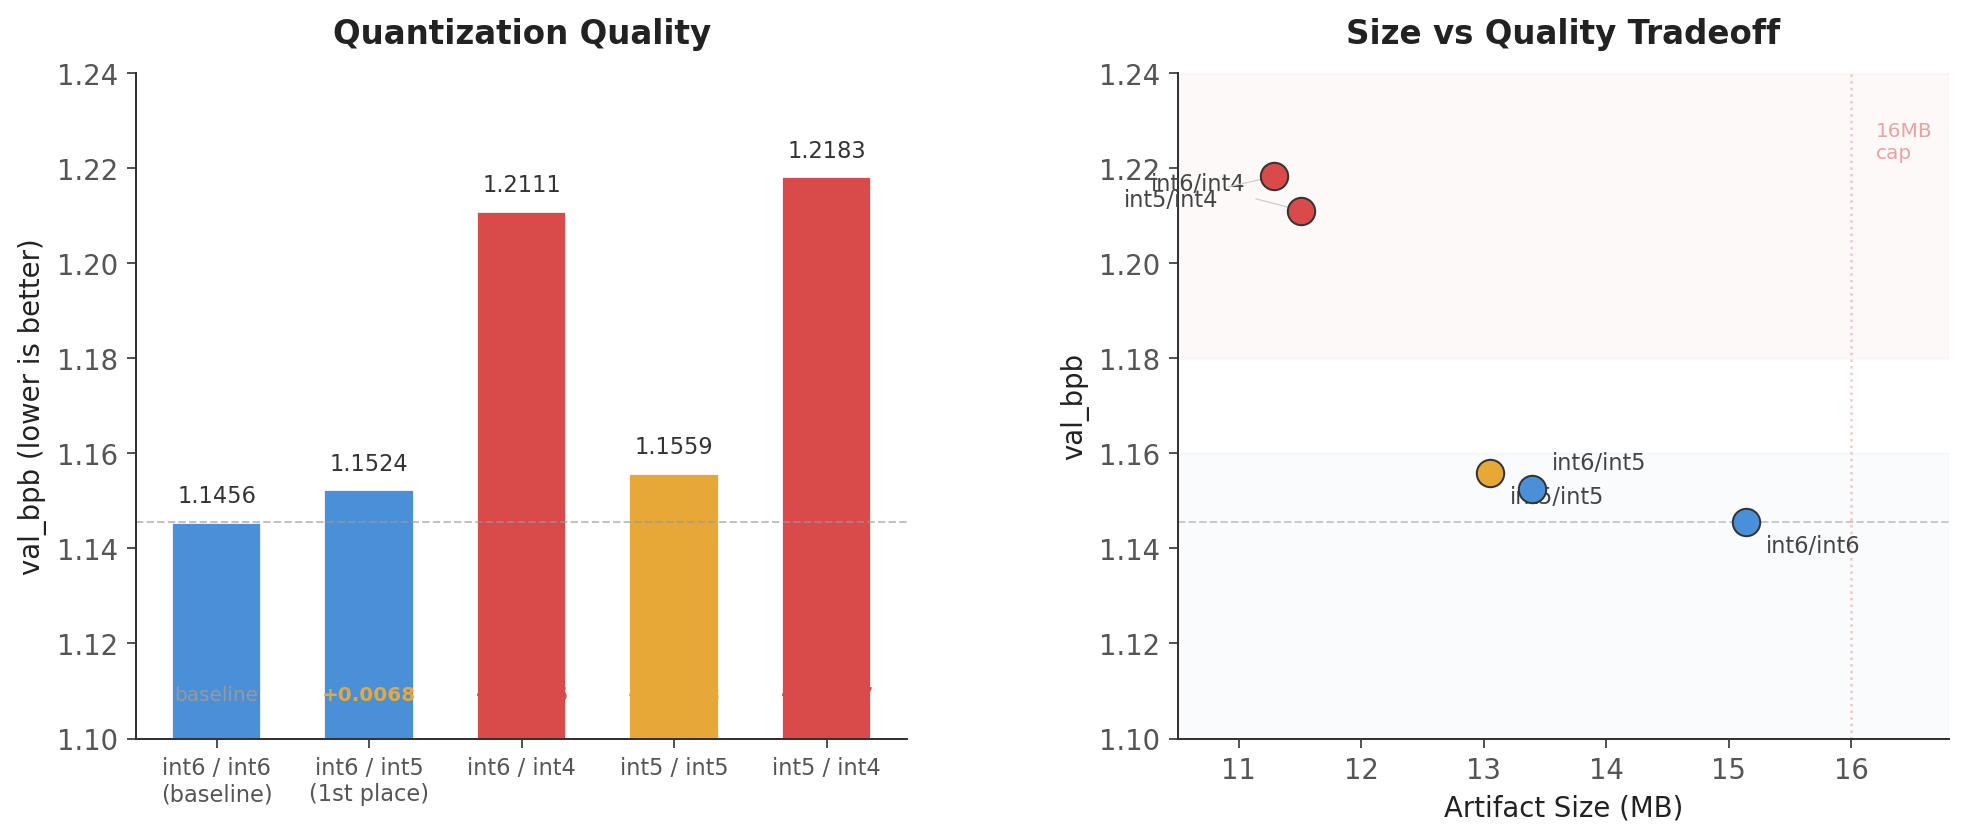
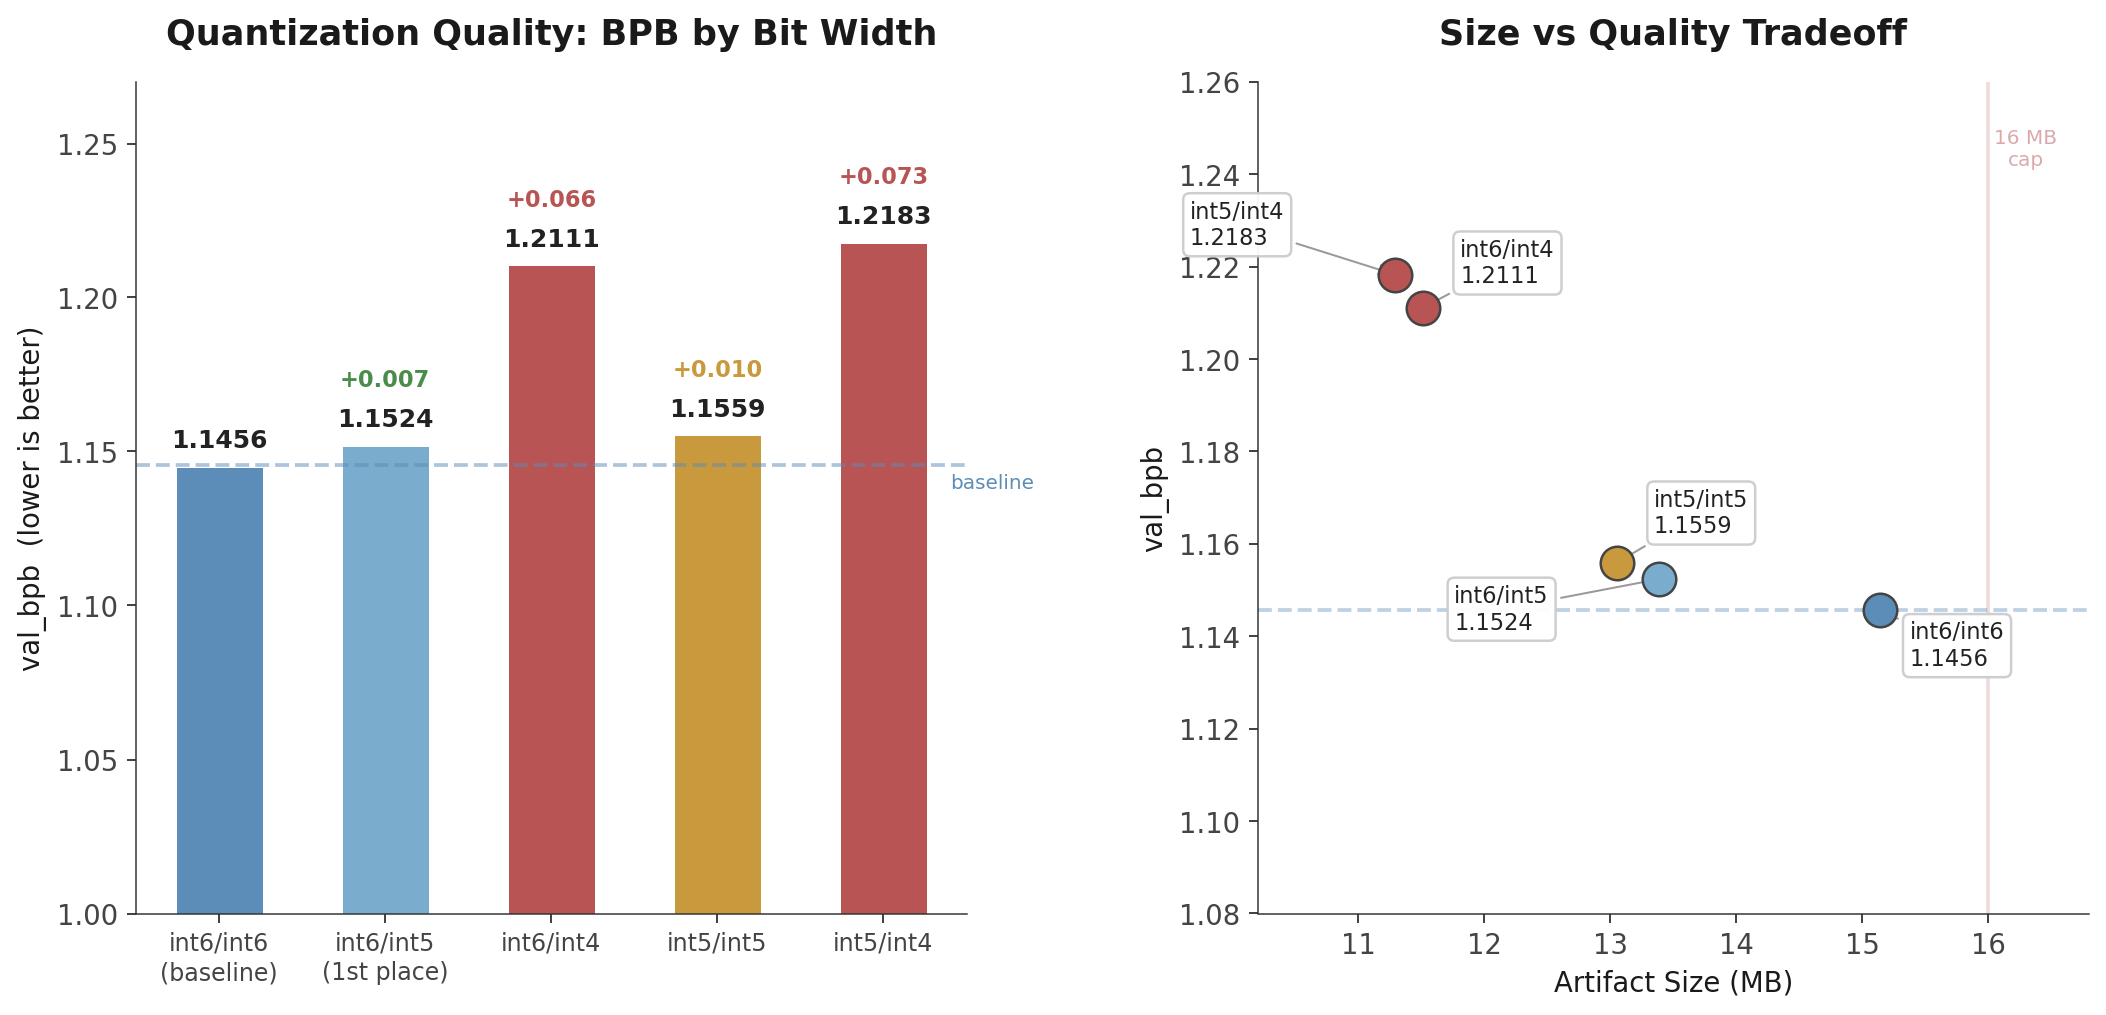
fix: Update README format and chart styling

diff --git a/records/track_non_record_16mb/2026-03-23_MoE_MultibitQuant_Analysis/README.md b/records/track_non_record_16mb/2026-03-23_MoE_MultibitQuant_Analysis/README.md
@@ -1,38 +1,31 @@
 # MoE Exploration + Multi-bit Quantization Analysis
 
-**Author:** Yeseong Lim ([@imyesung](https://github.com/imyesung))
-**Track:** Non-record (analysis / negative result)
-**Best val_bpb:** 1.1456 (int6 baseline, not a new record)
+**val_bpb: 1.1456** (int6 baseline, sliding window stride=64, post int6+zstd quantization roundtrip)
 
-## Summary
+This is a non-record submission documenting two negative results: (1) MoE at small scale loses to dense, and (2) int4 quantization is destructive, closing the MoE parameter expansion path.
 
-Two experiments testing whether Mixture of Experts (MoE) can beat dense models under the 16MB constraint:
+Configuration:
+- Track: `non-record`, analysis / negative result
+- Layout: `NUM_LAYERS=9 MODEL_DIM=512 NUM_HEADS=8 NUM_KV_HEADS=4 MLP_MULT=3 TRAIN_SEQ_LEN=2048`
+- Quantization comparison: same trained model evaluated at int6, int5, int4 for MLP and attention
+- Hardware: 8xH100 SXM, 7410 steps, 81ms/step, SWA 30 checkpoints
 
-1. **MoE soft routing** (2 experts x 1.5x MLP, same total params as dense 3x MLP) — failed, ~0.06-0.08 BPB worse than dense
-2. **Multi-bit quantization comparison** (int4/int5/int6 on the same trained dense model) — int4 is destructive, closing the MoE parameter expansion path
+## Run Command
 
-Both are negative results that provide useful data for the community.
+```bash
+# Dense quantization comparison (8xH100 SXM, ~10min training + ~13min eval)
+NCCL_IB_DISABLE=1 NUM_EXPERTS=1 MLP_MULT=3 NUM_LAYERS=9 MODEL_DIM=512 \
+TRAIN_SEQ_LEN=2048 MAX_WALLCLOCK_SECONDS=600 RUN_ID=quant_comparison \
+torchrun --standalone --nproc_per_node=8 train_gpt.py
 
-## Experiment 1: MoE at Small Scale
+# MoE run (8xH100 SXM)
+NCCL_IB_DISABLE=1 NUM_EXPERTS=2 MLP_MULT=1.5 \
+torchrun --standalone --nproc_per_node=8 train_gpt.py
+```
 
-**Setup:** 2nd-place architecture (9L, 512dim, MLP3x, SmearGate, BigramHash) with dense MLP replaced by MoE (2 experts x 1.5x, soft gated routing). Total params identical (~22M).
+## Multi-bit Quantization Results
 
-**Result:** Extrapolated final BPB ~1.20-1.22 vs dense 1.1458. MoE lost by ~0.06-0.08 BPB.
-
-**Why it failed:**
-- Soft routing = weighted sum of both experts = effectively one slightly flexible MLP
-- Per-token MLP capacity halved (1.5x vs 3x) with no compensating specialization
-- Apple scaling laws (ICML 2025) show optimal sparsity = 0 below ~500M total params
-- 2 experts is too coarse for meaningful specialization (DeepSeekMoE: 16-64 experts needed)
-
-**Could hard routing fix it?** Unlikely at this scale. Hard routing would enable true specialization, but:
-- DDP + torch.compile breaks with dynamic routing masks
-- Even with hard routing, per-token capacity is still halved
-- MoE only wins when total params >> active params, which requires aggressive quantization (see below)
-
-## Experiment 2: Multi-bit Quantization Comparison
-
-**Setup:** Dense 9L MLP3x model trained on 8xH100 SXM (7410 steps, 81ms/step, SWA 30 checkpoints). Same model quantized at 5 different configurations, each with full zstd-22 compression and sliding-window evaluation (stride=64).
+Same trained dense model quantized at 5 configurations, each with zstd-22 compression and sliding-window eval (stride=64):
 
 | Config | Attn | MLP | Artifact | val_bpb | vs int6 baseline |
 |--------|------|-----|----------|---------|-----------------|
@@ -44,44 +37,33 @@ Both are negative results that provide useful data for the community.
 
 ![Quantization Comparison](quant_comparison.png)
 
-**Key findings:**
+Key findings:
 
-- **int5 MLP is viable** (+0.007 BPB, saves 1.75 MB) — consistent with the current 1st place using int5 for MLP
+- **int5 MLP is viable** (+0.007 BPB, saves 1.75 MB) — consistent with current 1st place using int5 for MLP
 - **int4 MLP is destructive** (+0.065 BPB) — wipes out 80% of all gains from baseline to 1st place
-- **int5 attention adds ~+0.004 BPB** over int6 attention — attention is more sensitive to quantization than MLP
+- **int5 attention adds ~+0.004 BPB** over int6 — attention is more sensitive than MLP
 - **int4 is not viable anywhere** — both MLP and attention show catastrophic degradation
 
-## Why This Matters for MoE
+## MoE at Small Scale
+
+**Setup:** 2nd-place architecture with dense MLP 3x replaced by MoE (2 experts x 1.5x, soft gated routing). Total params identical (~22M).
+
+**Result:** Extrapolated final BPB ~1.20-1.22 vs dense 1.1458. MoE lost by ~0.06-0.08 BPB.
+
+Why it failed:
+- Soft routing = weighted sum of both experts = effectively one flexible MLP
+- Per-token MLP capacity halved (1.5x vs 3x) with no compensating specialization
+- Apple scaling laws (ICML 2025): optimal sparsity = 0 below ~500M total params
+- 2 experts is too coarse for meaningful specialization (DeepSeekMoE: 16-64 needed)
+
+## Why This Matters
 
 The MoE value proposition under 16MB is: "use aggressive quantization to fit more total expert parameters, compensate per-token capacity loss with specialization."
 
 This data shows:
 - int5 saves only 1.75 MB (~12% of MLP budget) — not enough for meaningful expert expansion
 - int4 saves 3.63 MB but costs +0.065 BPB — far exceeds any plausible specialization gain
-- The quantization headroom for MoE simply doesn't exist at this scale
-
-## Architecture
-
-Same as 2nd-place submission with MoE additions:
-- 9 layers, 512 dim, 8 heads, 4 KV heads (GQA)
-- MLP: ReLU^2, 3x expansion (dense) or 2 experts x 1.5x (MoE)
-- SmearGate + BigramHash(4096)
-- Muon optimizer (matrix) + AdamW (embeddings/scalars)
-- SWA, weight decay 0.04
-
-## Reproducibility
-
-```bash
-# Dense quantization comparison (8xH100 SXM, ~10min training + ~13min eval)
-cd /workspace/parameter-golf
-NCCL_IB_DISABLE=1 NUM_EXPERTS=1 MLP_MULT=3 NUM_LAYERS=9 MODEL_DIM=512 \
-TRAIN_SEQ_LEN=2048 MAX_WALLCLOCK_SECONDS=600 RUN_ID=quant_comparison \
-torchrun --standalone --nproc_per_node=8 train_gpt.py
-
-# MoE run (8xH100 SXM)
-NCCL_IB_DISABLE=1 NUM_EXPERTS=2 MLP_MULT=1.5 \
-torchrun --standalone --nproc_per_node=8 train_gpt.py
-```
+- The quantization headroom for MoE doesn't exist at this scale
 
 ## References
 
